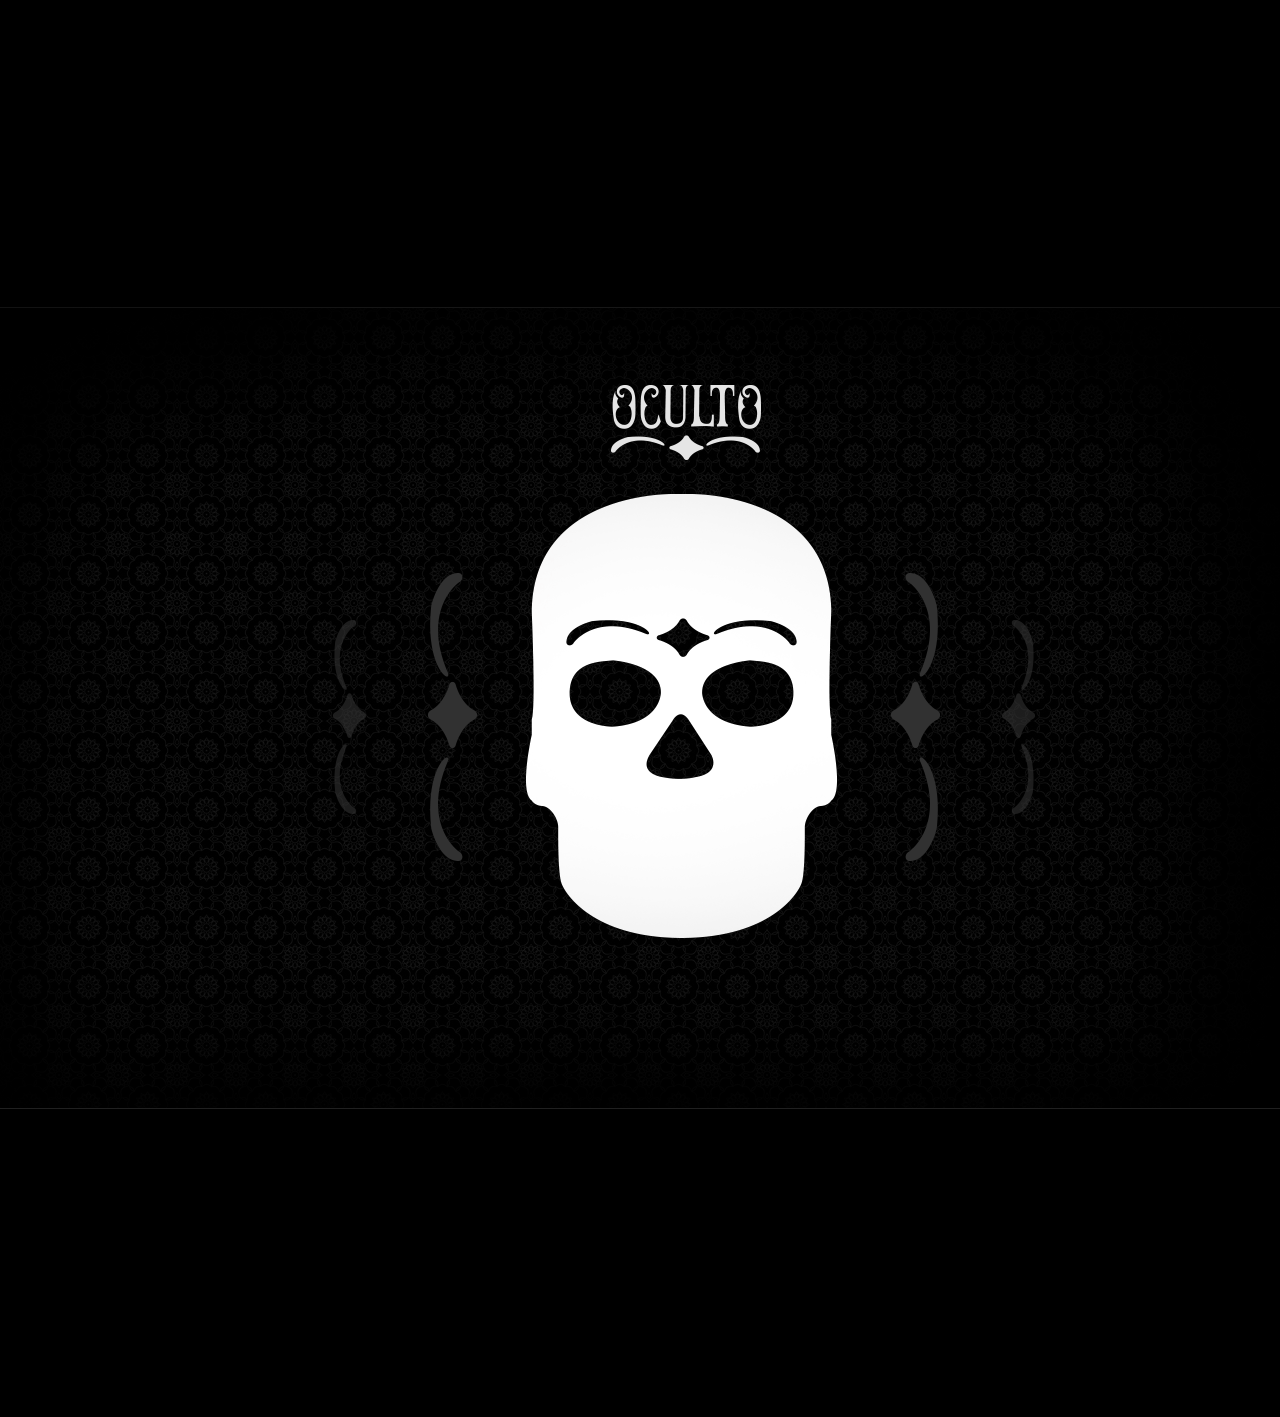
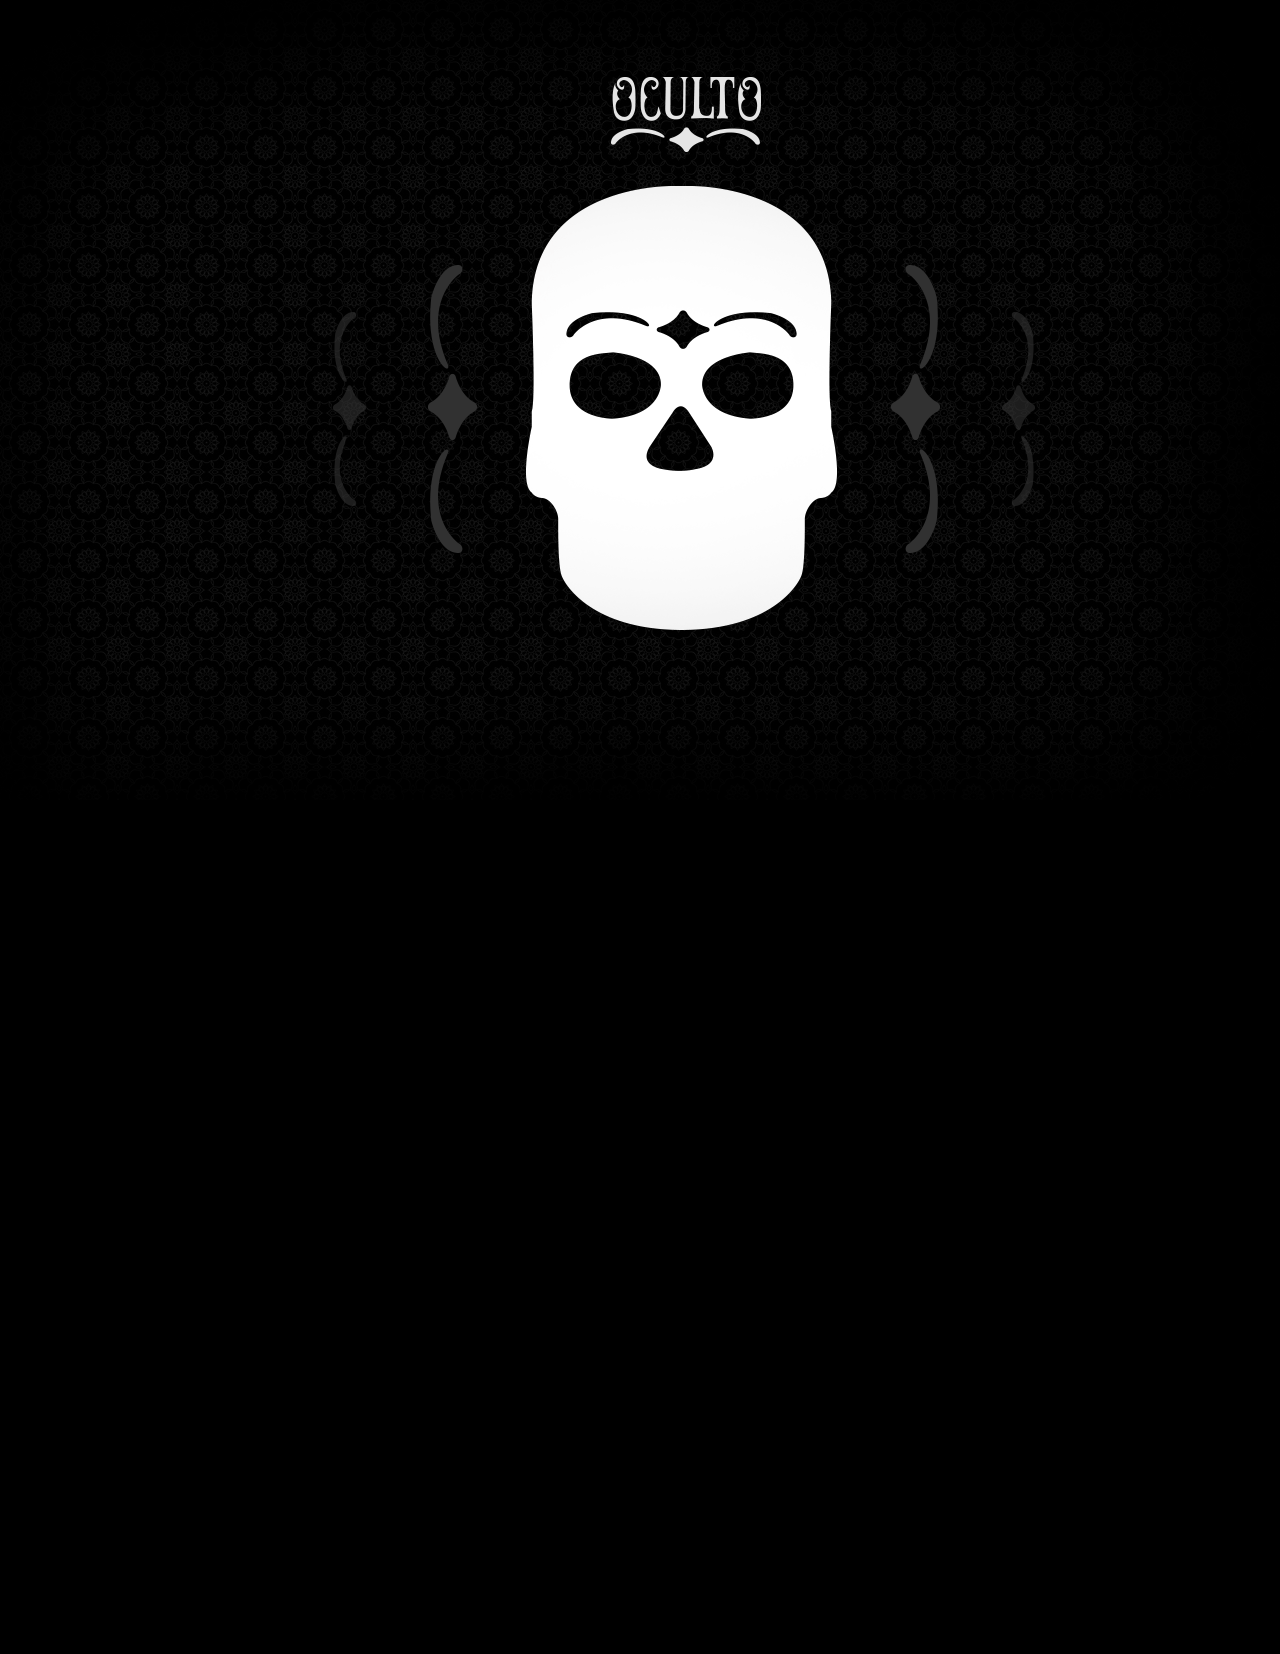
#oculto - fix mask prop01

diff --git a/oculto-press/prop01/css/styles.css b/oculto-press/prop01/css/styles.css
@@ -30,7 +30,7 @@ body {
   height: 100vh;
   width: 100%;
   display: block;
-  background-position: center center;
+  background-position: top center;
 }
 .icon-sound {
   position: fixed;
